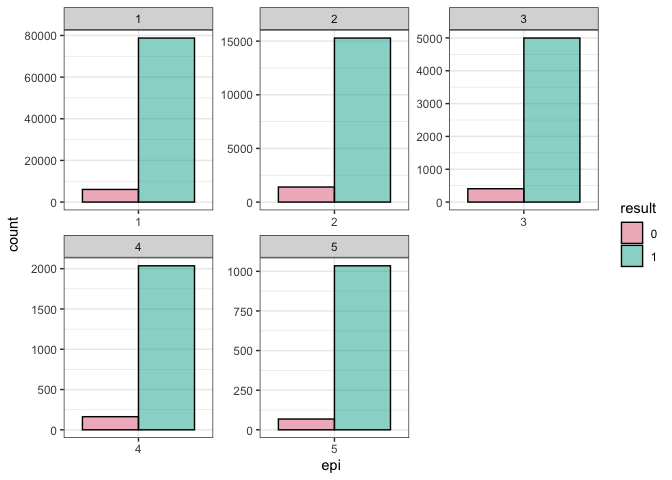
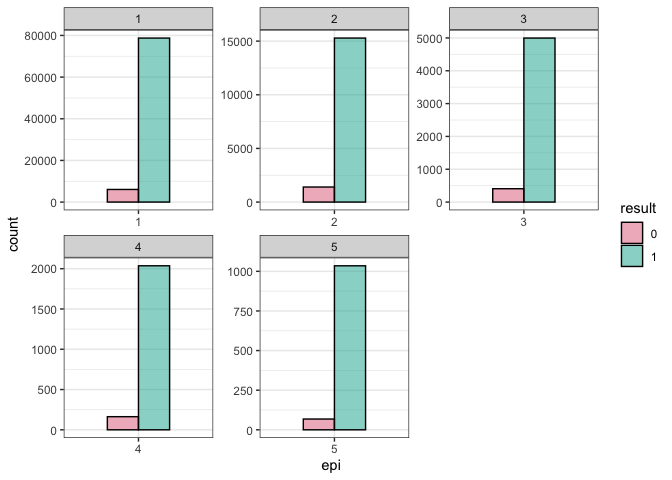
Push

diff --git a/Sepsis-Survival-Classification-Naives-Bayes.md b/Sepsis-Survival-Classification-Naives-Bayes.md
@@ -67,6 +67,7 @@ library(ggplot2)
 library(viridis)
 library(colorspace)
 library(scales)
+library(naivebayes)
 ```
 
 ## Loading the Data
@@ -232,7 +233,8 @@ ggplot(data, aes(x=epi, y=age, fill=sex)) +
 
 ``` r
 ggplot(data, aes(x=epi, fill=result)) +
-  geom_bar(alpha = .5, color='black', position = 'dodge') +
+  geom_bar(alpha = .5, color='black', position = 'dodge', width=0.5,
+           show.legend = TRUE) +
   facet_wrap(~ epi, scales = 'free') +
   scale_fill_discrete_qualitative() +
   theme_bw()
@@ -286,11 +288,54 @@ probability of A given B.[^2]
 
 ![](https://miro.medium.com/max/750/1*tjcmj9cDQ-rHXAtxCu5bRQ.webp)
 
+The assumption is A and B are independent.
 </center>
 
 ### Pros
 
 ### Cons
+
+``` r
+#set seed to have reproducible results
+set.seed(123)
+
+#split data into a 70/30 split
+ind <- sample(2, nrow(data), replace = T, prob = c(0.7, 0.3))
+
+#split test and train
+train <- data[ind==1, ]
+test <- data[ind==2, ]
+
+#build model
+model <- naive_bayes(result~., data=train)
+```
+
+``` r
+#for numeric intergers we can get mean and sd for dead
+train %>%
+  dplyr::filter(result =='0') %>%
+  summarise(mean(age), sd(age))
+```
+
+    ##   mean(age)  sd(age)
+    ## 1  77.15803 13.92635
+
+``` r
+#for numeric intergers we can get mean and sd for alive
+train %>%
+  dplyr::filter(result =='1') %>%
+  summarise(mean(age), sd(age))
+```
+
+    ##   mean(age) sd(age)
+    ## 1  61.68295 24.3987
+
+``` r
+#plot the model
+plot(model)
+```
+
+![](Sepsis-Survival-Classification-Naives-Bayes_files/figure-gfm/unnamed-chunk-12-1.png)<!-- -->![](Sepsis-Survival-Classification-Naives-Bayes_files/figure-gfm/unnamed-chunk-12-2.png)<!-- -->![](Sepsis-Survival-Classification-Naives-Bayes_files/figure-gfm/unnamed-chunk-12-3.png)<!-- -->
 
 ## Limitations
 
